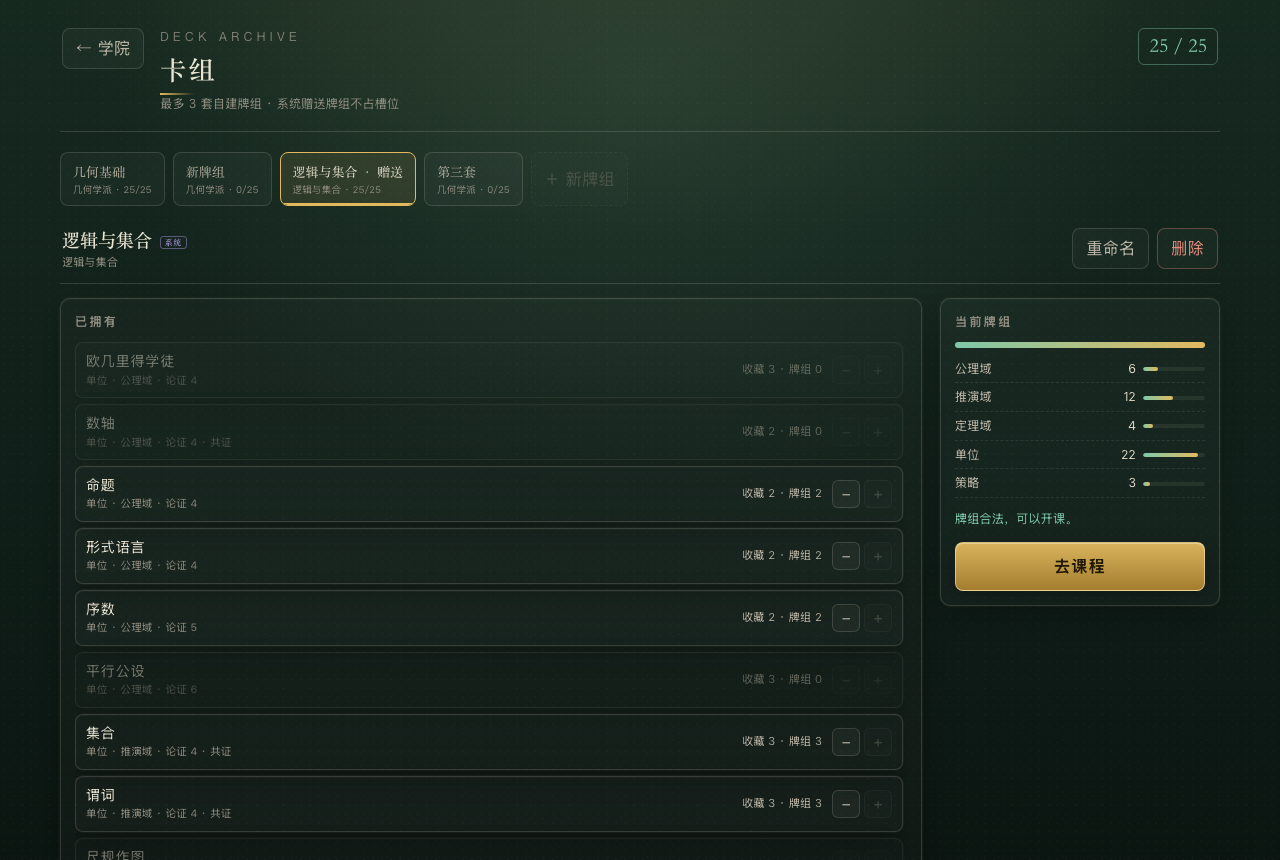
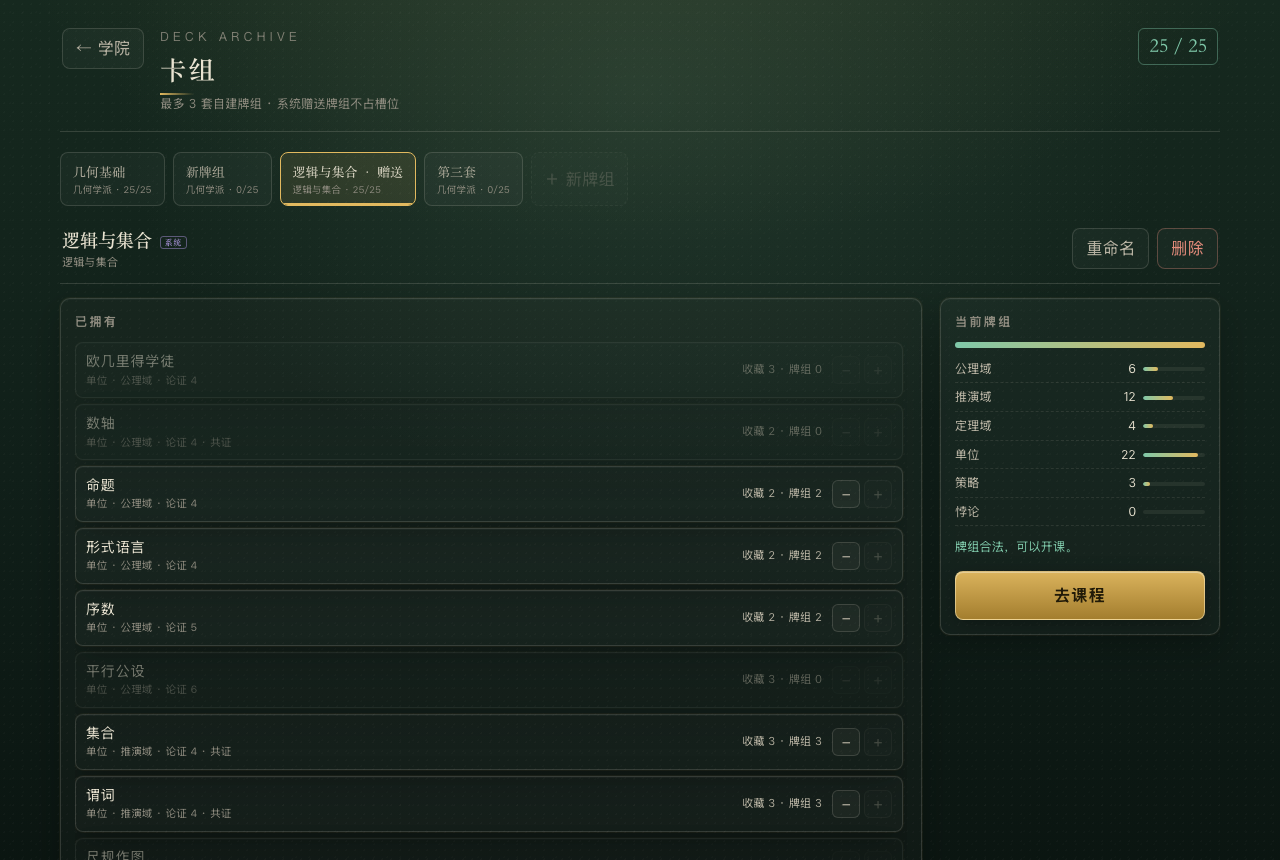
fix: 牌组统计区分悖论、移动端 QA 硬断言、新建牌组文案
- paradox 不再计入 unit，牌组构成增加“悖论”统计与条形
- 390px 移动端横向 overflow 由日志改为断言失败
- 新建牌组弹窗改为“最多 3 套自建牌组”

Changed region(s): [[0.7188, 0.5744, 0.9688, 0.7256]]

diff --git a/js/ui.js b/js/ui.js
@@ -379,13 +379,18 @@
     }).join('');
 
     const rowCounts = { axiom: 0, reasoning: 0, theorem: 0 };
-    const typeCounts = { unit: 0, special: 0 };
+    const typeCounts = { unit: 0, special: 0, paradox: 0 };
     deck.cards.forEach(function (id) {
       const def = card(id);
       if (!def) return;
-      if (def.type === 'unit' && rowCounts[def.row] != null) rowCounts[def.row]++;
-      if (def.type === 'special') typeCounts.special++;
-      else typeCounts.unit++;
+      if (def.type === 'unit') {
+        if (rowCounts[def.row] != null) rowCounts[def.row]++;
+        typeCounts.unit++;
+      } else if (def.type === 'special') {
+        typeCounts.special++;
+      } else if (def.type === 'paradox') {
+        typeCounts.paradox++;
+      }
     });
 
     return '' +
@@ -420,6 +425,7 @@
       '        <div><dt>定理域</dt><dd>' + rowCounts.theorem + '</dd><span class="bar"><i style="width:' + (rowCounts.theorem / 25 * 100) + '%"></i></span></div>' +
       '        <div><dt>单位</dt><dd>' + typeCounts.unit + '</dd><span class="bar"><i style="width:' + (typeCounts.unit / 25 * 100) + '%"></i></span></div>' +
       '        <div><dt>策略</dt><dd>' + typeCounts.special + '</dd><span class="bar"><i style="width:' + (typeCounts.special / 25 * 100) + '%"></i></span></div>' +
+      '        <div><dt>悖论</dt><dd>' + typeCounts.paradox + '</dd><span class="bar"><i style="width:' + (typeCounts.paradox / 25 * 100) + '%"></i></span></div>' +
       '      </dl>' +
       (check.ok ? '<p class="deck-valid">牌组合法，可以开课。</p>'
         : '<ul class="deck-errors">' + check.errors.map(function (e) { return '<li>' + esc(e) + '</li>'; }).join('') + '</ul>') +
@@ -918,7 +924,7 @@
     });
     const chosen = app.newDeckFaction || (activeDeck() ? activeDeck().faction : 'geometry');
     return '' +
-      '<div class="modal-head"><p class="modal-eyebrow">最多 3 套牌</p><h2>新建牌组</h2></div>' +
+      '<div class="modal-head"><p class="modal-eyebrow">最多 3 套自建牌组</p><h2>新建牌组</h2></div>' +
       '<label class="field-label">牌组名<input id="new-deck-name" class="text-input" maxlength="16" value="新牌组"></label>' +
       '<p class="field-label">主阵营</p>' +
       '<div class="faction-pick">' + factions.map(function (f) {

diff --git a/test/browser.js b/test/browser.js
@@ -374,7 +374,9 @@ async function main() {
   await wait(300);
   await click('[data-action="mulligan-confirm"]');
   await wait(500);
-  console.log('mobile battle:', await evalJs('JSON.stringify({w:document.documentElement.clientWidth,hand:document.querySelectorAll(".hand-card").length,overflow:document.documentElement.scrollWidth>document.documentElement.clientWidth})'));
+  const mobile = JSON.parse(await evalJs('JSON.stringify({w:document.documentElement.clientWidth,hand:document.querySelectorAll(".hand-card").length,overflow:document.documentElement.scrollWidth>document.documentElement.clientWidth})'));
+  console.log('mobile battle:', JSON.stringify(mobile));
+  if (mobile.overflow) throw new Error('390px 移动端出现横向 overflow');
   await shot('mobile-battle');
   await evalJs('TA_UI.quitBattle()');
   await wait(200);
